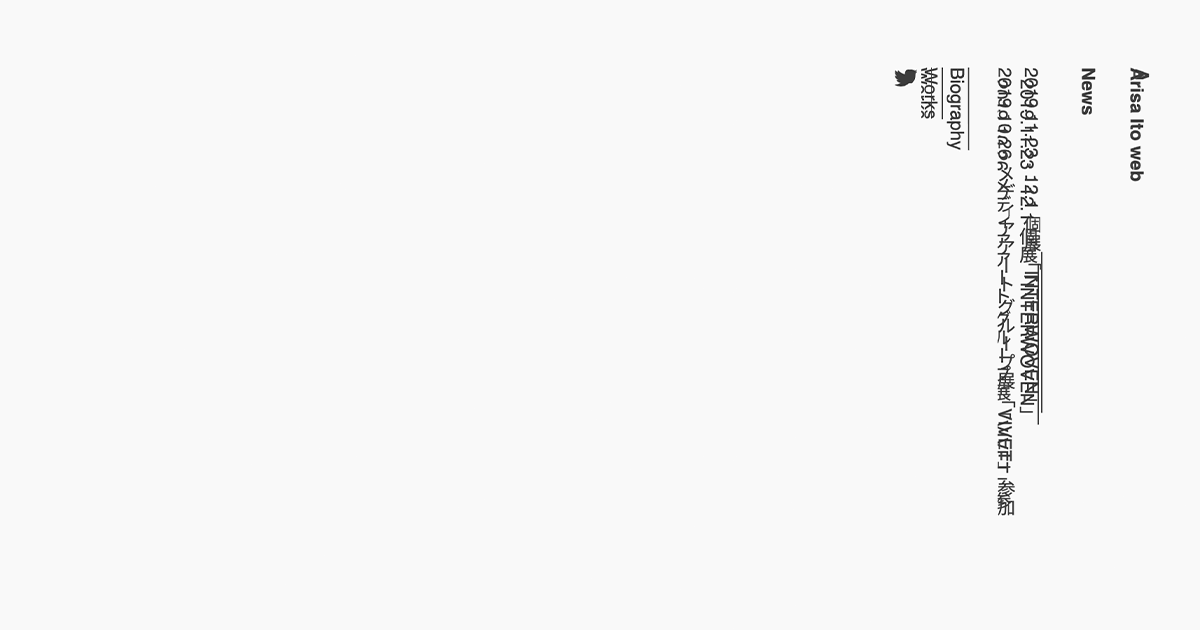
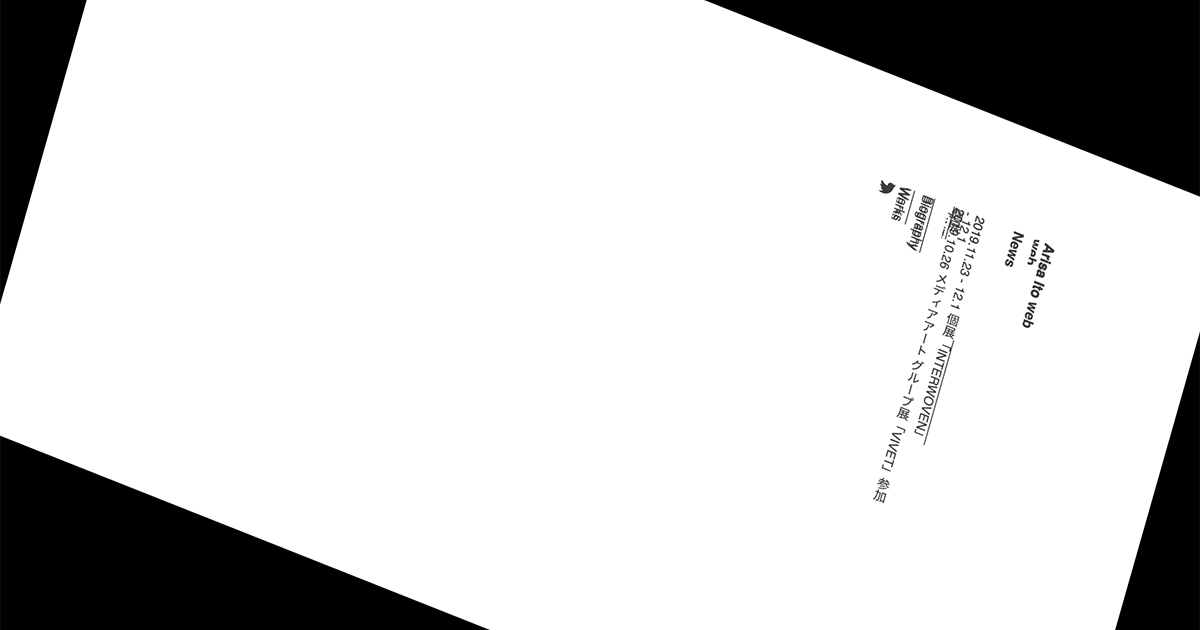
傾き調整

diff --git a/static/css/style.css b/static/css/style.css
@@ -1,1 +1,1 @@
-html,body,div,span,applet,object,iframe,h1,h2,h3,h4,h5,h6,p,blockquote,pre,a,abbr,acronym,address,big,cite,code,del,dfn,em,img,ins,kbd,q,s,samp,small,strike,strong,sub,sup,tt,var,b,u,i,center,dl,dt,dd,ol,ul,li,fieldset,form,label,legend,table,caption,tbody,tfoot,thead,tr,th,td,article,aside,canvas,details,embed,figure,figcaption,footer,header,hgroup,menu,nav,output,ruby,section,summary,time,mark,audio,video{margin:0;padding:0;border:0;font-size:100%;font:inherit;vertical-align:baseline}article,aside,details,figcaption,figure,footer,header,hgroup,menu,nav,section{display:block}body{line-height:1}ol,ul{list-style:none}blockquote,q{quotes:none}blockquote:before,blockquote:after,q:before,q:after{content:"";content:none}table{border-collapse:collapse;border-spacing:0}button{background-color:transparent;border:none;cursor:pointer;outline:none;padding:0;appearance:none}.c-ttl{color:#3d3d3d;font-size:0.9rem}.c-ttl--bold{font-weight:bold}.c-txt{color:#3d3d3d;font-size:0.8rem}.c-txt--en{color:#b8b0b0;font-size:0.8rem}.c-txt--grey{color:#b8b0b0}body{background:#f9f9f9;font-family:"Helvetica","Noto Sans JP",sans-serif;font-size:0.9rem;width:100%;height:100%}a{color:#3d3d3d;text-decoration:underline}ul{padding:0px}ul li{list-style-type:none}.fa-twitter{font-size:16px}.top{overflow:hidden;writing-mode:vertical-rl;-webkit-writing-mode:vertical-rl;-moz-writing-mode:vertical-rl;-ms-writing-mode:tb-rl;-ms-writing-mode:vertical-rl;background:#000;width:100%;height:100%}.top__inner{width:100%;height:100%;position:fixed;transform:rotate3d(1, 1, 1, 32deg);background:#fff}@media screen and (max-width: 749px){.top__inner{transform:rotate3d(1, 1, 1, 32deg) translateX(-10%)}}.top__container{z-index:1;position:absolute;top:15%;right:13%;color:#3d3d3d}@media screen and (max-width: 749px){.top__container{writing-mode:vertical-rl;font-size:14px;position:absolute;top:8%;right:8%}}.top .c-ttl{padding:0 0.6rem}.top .c-txt{padding:0 0.3rem}.top .loading-bg{background-color:#000;position:absolute;top:0;left:0;width:100%;height:100%;z-index:100}.bio{position:absolute;width:100%;height:100%;background:#000;overflow-y:scroll;overflow-x:hidden}.bio__container{position:absolute;padding:7% 15%;color:#3d3d3d;transform:rotate3d(1, 1, 1, 32deg);background:#fff}.bio .c-ttl{padding:0.6rem 0}@media screen and (max-width: 499px){.bio .content{padding:10% 7%}}.bio hr{border:30px solid transparent}.bio .en a{color:#b8b0b0}.work{writing-mode:vertical-rl;-webkit-writing-mode:vertical-rl;-moz-writing-mode:vertical-rl;-ms-writing-mode:tb-rl;-ms-writing-mode:vertical-rl;overflow-y:hidden;overflow-x:scroll;width:100%;white-space:nowrap;height:100%;position:absolute;top:0;left:0;background:#000}.work .c-ttl{padding:0 0.6rem}.work .c-txt{padding:0 0.3rem}.work__container{z-index:1;white-space:initial;position:absolute;color:#3d3d3d;transform:rotate3d(1, 1, 1, 32deg);background:#fff;width:100%;padding:4rem}@media screen and (max-width: 749px){.work__container{writing-mode:vertical-rl;font-size:14px;position:absolute;top:8%;right:8%;transform:rotate3d(1, 1, 1, 32deg) translateX(-10%)}}.work .statement{height:70vh;line-height:1.1rem}.work .scrol-ui{display:none}@media screen and (max-width: 749px){.work .scrol-ui{display:block;position:fixed;bottom:10%;left:10%;z-index:100;font-size:1.3rem;font-weight:bold}}
+html,body,div,span,applet,object,iframe,h1,h2,h3,h4,h5,h6,p,blockquote,pre,a,abbr,acronym,address,big,cite,code,del,dfn,em,img,ins,kbd,q,s,samp,small,strike,strong,sub,sup,tt,var,b,u,i,center,dl,dt,dd,ol,ul,li,fieldset,form,label,legend,table,caption,tbody,tfoot,thead,tr,th,td,article,aside,canvas,details,embed,figure,figcaption,footer,header,hgroup,menu,nav,output,ruby,section,summary,time,mark,audio,video{margin:0;padding:0;border:0;font-size:100%;font:inherit;vertical-align:baseline}article,aside,details,figcaption,figure,footer,header,hgroup,menu,nav,section{display:block}body{line-height:1}ol,ul{list-style:none}blockquote,q{quotes:none}blockquote:before,blockquote:after,q:before,q:after{content:"";content:none}table{border-collapse:collapse;border-spacing:0}button{background-color:transparent;border:none;cursor:pointer;outline:none;padding:0;appearance:none}.c-ttl{color:#3d3d3d;font-size:0.9rem}.c-ttl--bold{font-weight:bold}.c-txt{color:#3d3d3d;font-size:0.8rem}.c-txt--en{color:#b8b0b0;font-size:0.8rem}.c-txt--grey{color:#b8b0b0}body{background:#f9f9f9;font-family:"Helvetica","Noto Sans JP",sans-serif;font-size:0.9rem;width:100%;height:100%}a{color:#3d3d3d;text-decoration:underline}ul{padding:0px}ul li{list-style-type:none}.fa-twitter{font-size:16px}.top{overflow:hidden;writing-mode:vertical-rl;-webkit-writing-mode:vertical-rl;-moz-writing-mode:vertical-rl;-ms-writing-mode:tb-rl;-ms-writing-mode:vertical-rl;background:#000;width:100%;height:100%}.top__inner{width:100%;height:100%;position:fixed;transform:rotate3d(1, 1, 1, 32deg);background:#fff}@media screen and (max-width: 749px){.top__inner{transform:rotate3d(1, 1, 1, 32deg) translateX(-10%)}}.top__container{z-index:1;position:absolute;top:15%;right:13%;color:#3d3d3d}@media screen and (max-width: 749px){.top__container{writing-mode:vertical-rl;font-size:14px;position:absolute;top:8%;right:8%}}.top .c-ttl{padding:0 0.6rem}.top .c-txt{padding:0 0.3rem}.top .loading-bg{background-color:#000;position:absolute;top:0;left:0;width:100%;height:100%;z-index:100}.bio{position:absolute;width:100%;height:100%;background:#000;overflow-y:scroll;overflow-x:hidden}.bio__container{position:absolute;padding:7% 15%;color:#3d3d3d;transform:rotate3d(1, 1, 1, 32deg) translateX(40%);background:#fff}@media screen and (max-width: 749px){.bio__container{transform:rotate3d(1, 1, 1, 32deg) translateX(0%)}}.bio .c-ttl{padding:0.6rem 0}@media screen and (max-width: 499px){.bio .content{padding:10% 7%}}.bio hr{border:30px solid transparent}.bio .en a{color:#b8b0b0}.work{writing-mode:vertical-rl;-webkit-writing-mode:vertical-rl;-moz-writing-mode:vertical-rl;-ms-writing-mode:tb-rl;-ms-writing-mode:vertical-rl;overflow-y:hidden;overflow-x:scroll;width:100%;height:100%;white-space:nowrap;position:absolute;top:0;left:0;background:#000}.work .c-ttl{padding:0 0.6rem}.work .c-txt{padding:0 0.3rem}.work__container{z-index:1;white-space:initial;position:absolute;top:15%;right:13%;color:#3d3d3d;transform:rotate3d(1, 1, 1, 32deg) translateY(-140px);background:#fff;width:90%;max-width:800px;padding:7rem}@media screen and (max-width: 749px){.work__container{writing-mode:vertical-rl;font-size:14px;position:absolute;top:8%;right:8%;transform:rotate3d(1, 1, 1, 32deg) translateY(-10%) translateX(-10%)}}.work .statement{height:70vh;line-height:1.1rem;position:relative}.work .scrol-ui{display:none}@media screen and (max-width: 749px){.work .scrol-ui{display:block;position:fixed;bottom:10%;left:10%;z-index:100;font-size:1.3rem;font-weight:bold}}
